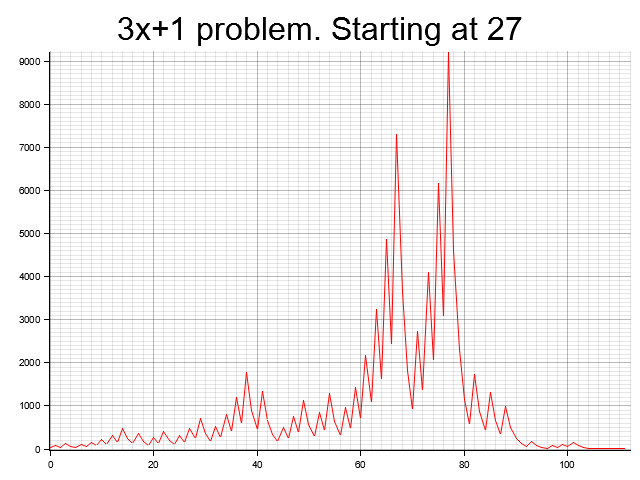
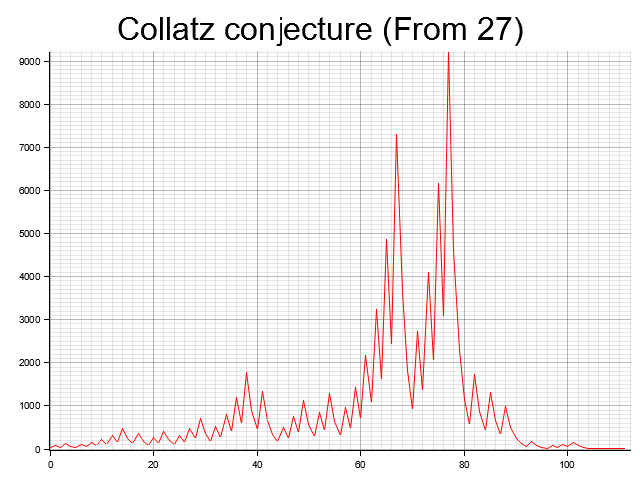
Collatz Conjecture

Changed region(s): [[0.1875, 0.0312, 0.8125, 0.0938]]

diff --git a/src/main.rs b/src/main.rs
@@ -98,21 +98,23 @@ fn main() {
     }
 
     println!("Reached the 4, 2, 1 loop in {} loops", count);
-    plot(sequence);
+    match plot(sequence) { _=>{}};
     return;
 }
 
-//Takes in a vector of coords and saves out a plot graph of those coordinates
+//Takes in a a sequence and outputs a plot image.
+//Currently only takes in one sequence. Could later make it take in a vector of 
+//sequences to compare conjectures.
 fn plot(sequence: Sequence) -> Result<(), Box<dyn std::error::Error>> {
     let coords: Vec<(u64, u64)> = Coord::to_tuple_vec(&sequence.coords);
     let start_int: u64 = sequence.start;
     
     //Setup plot
     let root = BitMapBackend::new("./out.png", (640, 480)).into_drawing_area();
-    root.fill(&WHITE);
+    root.fill(&WHITE)?;
     let root = root.margin(10, 10, 10, 10);
     let mut chart = ChartBuilder::on(&root)
-        .caption(format!("3x+1 problem. Starting at {}", start_int), ("sans-serif", 40).into_font())
+        .caption(format!("Collatz conjecture (From {})", start_int), ("sans-serif", 40).into_font())
         .x_label_area_size(20)
         .y_label_area_size(40)
         .build_cartesian_2d(0u64..coords.len() as u64, 0u64..Coord::find_highest_in_tuple_vec(&coords))?;

diff --git a/README.md b/README.md
@@ -1,0 +1,9 @@
+# Collatz Conjecture
+
+The Collatz conjecture, also known as the 3x+1 problem is defined by Wikipedia as:
+>A conjecture in mathematics that concerns sequences defined as follows: start with any positive integer n. Then each term is obtained from the previous term as follows: if the previous term is even, the next term is one half of the previous term. If the previous term is odd, the next term is 3 times the previous term plus 1. The conjecture is that no matter what value of n, the sequence will always reach one.
+
+This program aims to run numbers through the conjecture and plot integers from the conjecture on a plot.
+
+## Example output
+![Conjecture graph starting at 27](./out.png)
